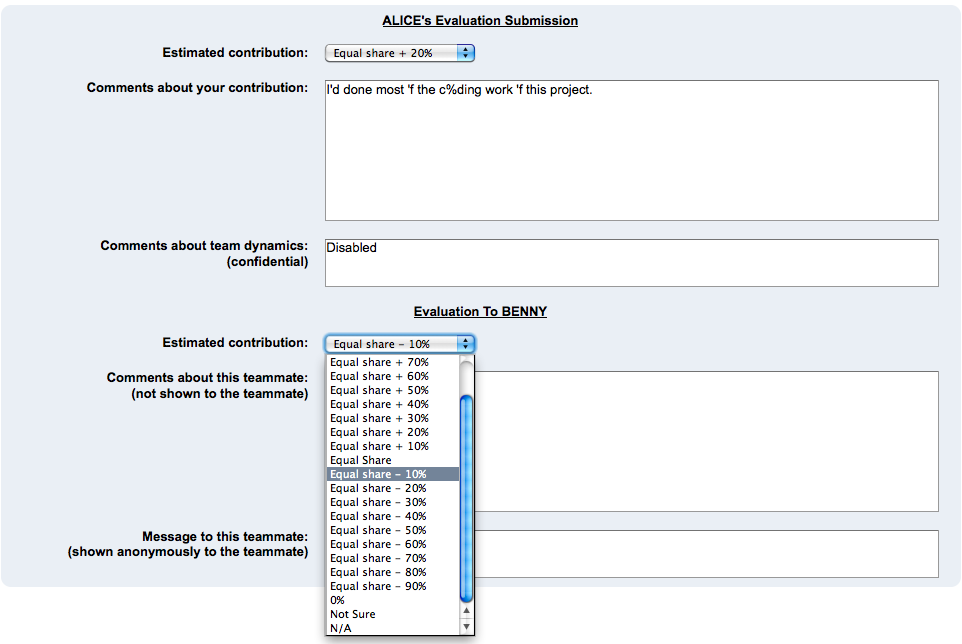
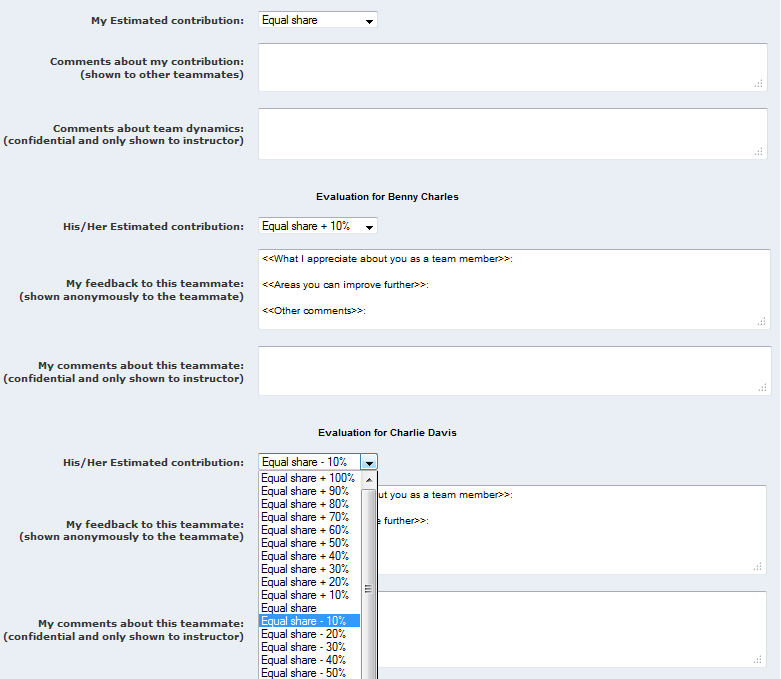
Starting Issue 492 [studentHelp: add clarifications on how to interpret results] Update Issue 492 Added clarifications. Updated the screenshot.

diff --git a/src/main/webapp/studentHelp.html b/src/main/webapp/studentHelp.html
@@ -1,10 +1,11 @@
 <!DOCTYPE html>
 
 <head>
-   <meta http-equiv="Content-Type" content="text/html; charset=UTF-8">
-   <link rel="stylesheet" href="stylesheets/teammates.css" type="text/css">
-   <title>Teammates Online Peer Feedback System for Student Team Projects - Student Help</title>
-   <!--[if !IE 7]>
+<meta http-equiv="Content-Type" content="text/html; charset=UTF-8">
+<link rel="stylesheet" href="stylesheets/teammates.css" type="text/css">
+<title>Teammates Online Peer Feedback System for Student Team
+	Projects - Student Help</title>
+<!--[if !IE 7]>
        <style type="text/css">
            #mainContainer {display:table;height:100%}
        </style>
@@ -13,96 +14,151 @@
 
 <body>
 
-   <div id="mainContainer"> <!-- wrap -->
-       <div id="header">
-           <div id="headerWrapper">
-               <div id="imageHolder">
-                   <img alt="Teammates" src="images/teammateslogo.jpg" width="150px" height="47px">
-               </div>
-      
-               <div id="textHolder">
-                   <ul id="navbar">
-                       <li><br></li>
-                   </ul>
-               </div>
-           </div>
-       </div>
-       
-       <div id="mainContent"> <!-- main -->
-           <div id="caption">
-               <div id="captionText">
-                   <span>Table of Contents</span>
-               </div>
-           </div>
+	<div id="mainContainer">
+		<!-- wrap -->
+		<div id="header">
+			<div id="headerWrapper">
+				<div id="imageHolder">
+					<img alt="Teammates" src="images/teammateslogo.jpg" width="150px"
+						height="47px">
+				</div>
 
-           <div style="margin: 0 auto; padding: 0 50px;">
-               <br>
-               <ul>
-                   <li><a href="#gs">Getting Started</a></li>
-                   <li><a href="#faq">Frequently Asked Questions</a>
-                       <div style="margin: 0 auto; padding: 0 50px;">
-                       <ul>
-                           <li><a href="#faq1">What is the meaning of ‘claimed contribution’ and ‘perceived contribution’?</a></li>
-                           <li><a href="#faq2">When I log in, I cannot see any of the courses I used to have in the system. All I see is a blank screen. What should I do?</a></li>
-                           <li><a href="#faq3">When I enter the key, the system says ‘invalid key’.</a></li>
-                           <li><a href="#faq4">I do not see the course listed in the Courses page even though the registration key has been accepted. What should I do?</a></li>
-                           <li><a href="#faq5">What should I do if I'm unable to submit my evaluation?</a></li>
-                       </ul>
-                       </div>
-                   </li>
-               </ul>
-           </div>
-        
-           <div id="caption">
-               <div id="captionText">
-                   <span><a name="gs">Getting Started</a></span>
-               </div>
-           </div>
+				<div id="textHolder">
+					<ul id="navbar">
+						<li><br></li>
+					</ul>
+				</div>
+			</div>
+		</div>
 
-           <div style="margin: 0 auto; padding: 0 50px;">
-               <br>
-               <ol>
-                   <li>Go to the ‘Courses’ page and <b>register for the course</b> by entering the registration key you received for the system.<br>Note that you need a separate registration key for each course you use the system for.<br><br></li>
-                   <li>Go to the Evaluations page and <b>submit pending evaluations</b> (if any).<br><br></li>
-                   <li>You can <b>edit your submissions</b> up to the closing time of the evaluations.<br><br></li>
-                   <li>You can <b>view evaluation results</b> after the teaching staff has published evaluation results. The system will notify you via email when results are available for viewing.</li>
-           </div>
-    
-           <div id="caption">
-               <div id="captionText">
-                   <span><a name="faq">Frequently Asked Questions</a></span>
-               </div>
-           </div>
-    
-           <div style="margin: 0 auto; padding: 0 50px 75px;">
-               <br>
-               <ul>
-                   <li><b><a name="faq1">What is the meaning of ‘claimed contribution’ and ‘perceived contribution’?</a></b>
-                       <div style="margin: 0 auto; padding: 0 50px;">
-                       <ul>
-                           <li>Claimed contribution is the contribution you attributed to yourself.<br></li>
-                           <li>Perceived contribution is the the average value of the contribution your team members attributed to you, excluding the contribution you attributed to yourself. That means you cannot boost your perceived contribution by claiming a high contribution for yourself.<br></li>
-                       </ul>
-                       </div>
-                   <br></li>
-                   <li><b><a name="faq2">When I log in, I cannot see any of the courses I used to have in the system. All I see is a blank screen. What should I do?</a></b><br>Please email <a href="mailto:teammates@comp.nus.edu.sg">teammates@comp.nus.edu.sg</a> so that we can help you rectify the problem.<br><br></li>
-                   <li><b><a name="faq3">When I enter the key, the system says ‘invalid key’.</a></b><br>Try again, taking extra care to copy the key exactly as it is in the registration email. If you still cannot register, email <a href="mailto:teammates@comp.nus.edu.sg">teammates@comp.nus.edu.sg</a> with a copy of your registration email.<br><br></li>
-                   <li><b><a name="faq4">I do not see the course listed in the Courses page even though the registration key has been accepted. What should I do?</a></b><br>Click on the Courses tab again to refresh the page.<br><br></li>
-                   <li><b><a name="faq5">What should I do if I'm unable to submit my evaluation?</a></b><br>Email your evaluation to your course instructor and request him/her to submit your evaluation to the system. Provide the following data for your evaluation:<br><br>
-                       <center><img alt="Student evaluation form" src="images/student-help.png"></center><br>
-                   </li>
-               </ul>
-           </div>
-       </div>
-   </div>
-   
-   <div id="footer">
-       <div id="footerWrapper">
-          <div id="footerRightCol">
-               Hosted on <a class="footer" href="http://code.google.com/appengine/" target="_blank">Google App Engine</a>
-           </div>
-       </div>
-   </div>
-   
+		<div id="mainContent">
+			<!-- main -->
+			<div id="caption">
+				<div id="captionText">
+					<span>Table of Contents</span>
+				</div>
+			</div>
+
+			<div style="margin: 0 auto; padding: 0 50px;">
+				<br>
+				<ul>
+					<li><a href="#gs">Getting Started</a></li>
+					<li><a href="#faq">Frequently Asked Questions</a>
+						<div style="margin: 0 auto; padding: 0 50px;">
+							<ul>
+								<li><a href="#faq1">How do I interpret evaluation
+										results?</a></li>
+								<li><a href="#faq1.1">How are evaluation results used
+										in grading?</a></li>
+								<li><a href="#faq2">When I log in, I cannot see any of
+										the courses I used to have in the system. All I see is a blank
+										screen. What should I do?</a></li>
+								<li><a href="#faq3">When I enter the key, the system
+										says ‘invalid key’.</a></li>
+								<li><a href="#faq4">I do not see the course listed in
+										the Courses page even though the registration key has been
+										accepted. What should I do?</a></li>
+								<li><a href="#faq5">What should I do if I'm unable to
+										submit my evaluation?</a></li>
+							</ul>
+						</div></li>
+				</ul>
+			</div>
+
+			<div id="caption">
+				<div id="captionText">
+					<span><a name="gs">Getting Started</a></span>
+				</div>
+			</div>
+
+			<div style="margin: 0 auto; padding: 0 50px;">
+				<br>
+				<ol>
+					<li>Go to the ‘Courses’ page and <b>register for the
+							course</b> by entering the registration key you received for the
+						system.<br>Note that you need a separate registration key for
+						each course you use the system for.<br> <br></li>
+					<li>Go to the Evaluations page and <b>submit pending
+							evaluations</b> (if any).<br> <br></li>
+					<li>You can <b>edit your submissions</b> up to the closing
+						time of the evaluations.<br> <br></li>
+					<li>You can <b>view evaluation results</b> after the teaching
+						staff has published evaluation results. The system will notify you
+						via email when results are available for viewing.
+					</li>
+			</div>
+
+			<div id="caption">
+				<div id="captionText">
+					<span><a name="faq">Frequently Asked Questions</a></span>
+				</div>
+			</div>
+
+			<div style="margin: 0 auto; padding: 0 50px 75px;">
+				<br>
+				<ul>
+					<li><b><a name="faq1">How do I interpret evaluation
+								results?</a></b>
+						<div style="margin: 0 auto; padding: 0 50px;">
+							<ul>
+								<li>Compare values given under 'My view' to those under
+									'Team's view'. This tells you whether your perception matches
+									with what the team thinks, particularly regarding your own
+									contribution.<br> You may ignore minor differences.
+								</li>
+								<li>Team's view of your contribution is the average value
+									of the contribution your team members attributed to you,
+									excluding the contribution you attributed to yourself. That
+									means you cannot boost your perceived contribution by claiming
+									a high contribution for yourself.<br>
+								</li>
+							</ul>
+						</div> <br></li>
+					<li><b><a name="faq1.1">How are evaluation results
+								used in grading?</a></b> TEAMMATES does not calculate grades. It is up
+						to the instructors to use evaluation results in any way they want.<br>
+						However, TEAMMATES recommend that evaluation results are used only
+						as flags to identify teams with contribution imbalances. Once
+						identified, the instructor is recommended to investigate further
+						before taking action. <br></li>
+					<br>
+					<li><b><a name="faq2">When I log in, I cannot see any
+								of the courses I used to have in the system. All I see is a
+								blank screen. What should I do?</a></b><br>This is usually a result
+						of you changing the primary email of your Google account from a
+						non-Gmail address to a Gmail addres. In any case, please email <a
+						href="mailto:teammates@comp.nus.edu.sg">teammates@comp.nus.edu.sg</a>
+						so that we can help you rectify the problem.<br> <br></li>
+					<li><b><a name="faq3">When I enter the key, the system
+								says ‘invalid key’.</a></b><br>Try again, taking extra care to copy
+						the key exactly as it is in the registration email. If you still
+						cannot register, email <a href="mailto:teammates@comp.nus.edu.sg">teammates@comp.nus.edu.sg</a>
+						with a copy of your registration email.<br> <br></li>
+					<li><b><a name="faq4">I do not see the course listed
+								in the Courses page even though the registration key has been
+								accepted. What should I do?</a></b><br>Click on the Courses tab
+						again to refresh the page.<br> <br></li>
+					<li><b><a name="faq5">What should I do if I'm unable
+								to submit my evaluation?</a></b><br>You can email your evaluation
+						to your course instructor and request him/her to submit your
+						evaluation to the system. Use the screenshot below as a guide to
+						what information to provide:<br> <br>
+						<center>
+							<img alt="Student evaluation form" src="images/student-help.png">
+						</center> <br></li>
+				</ul>
+			</div>
+		</div>
+	</div>
+
+	<div id="footer">
+		<div id="footerWrapper">
+			<div id="footerRightCol">
+				Hosted on <a class="footer" href="http://code.google.com/appengine/"
+					target="_blank">Google App Engine</a>
+			</div>
+		</div>
+	</div>
+
 </body>
 </html>
